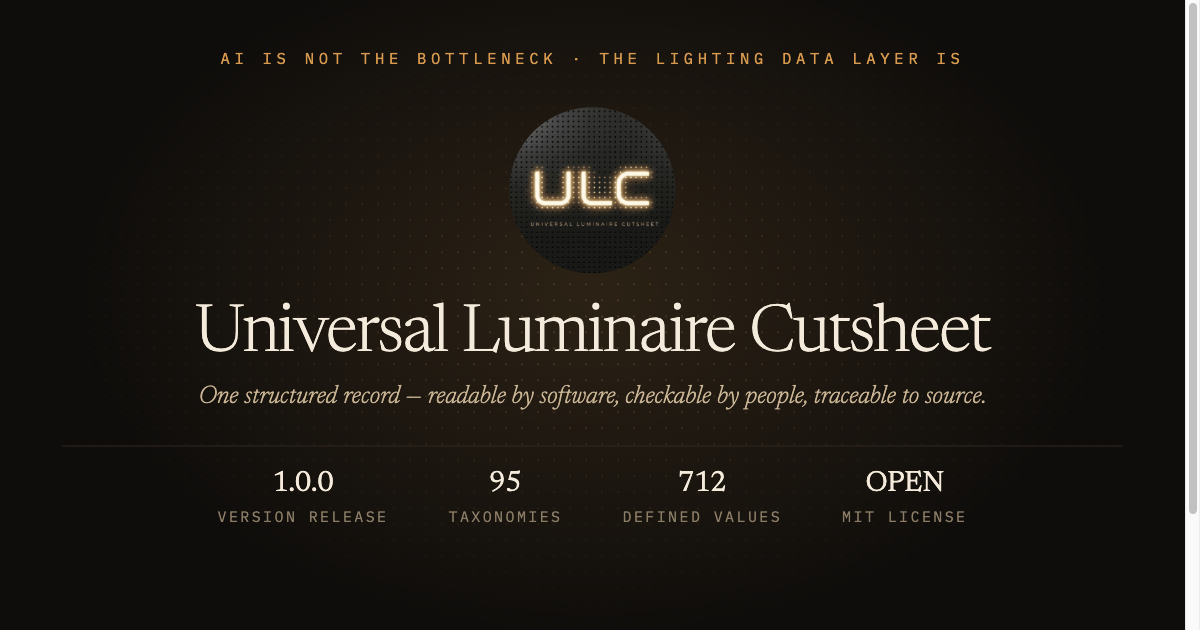
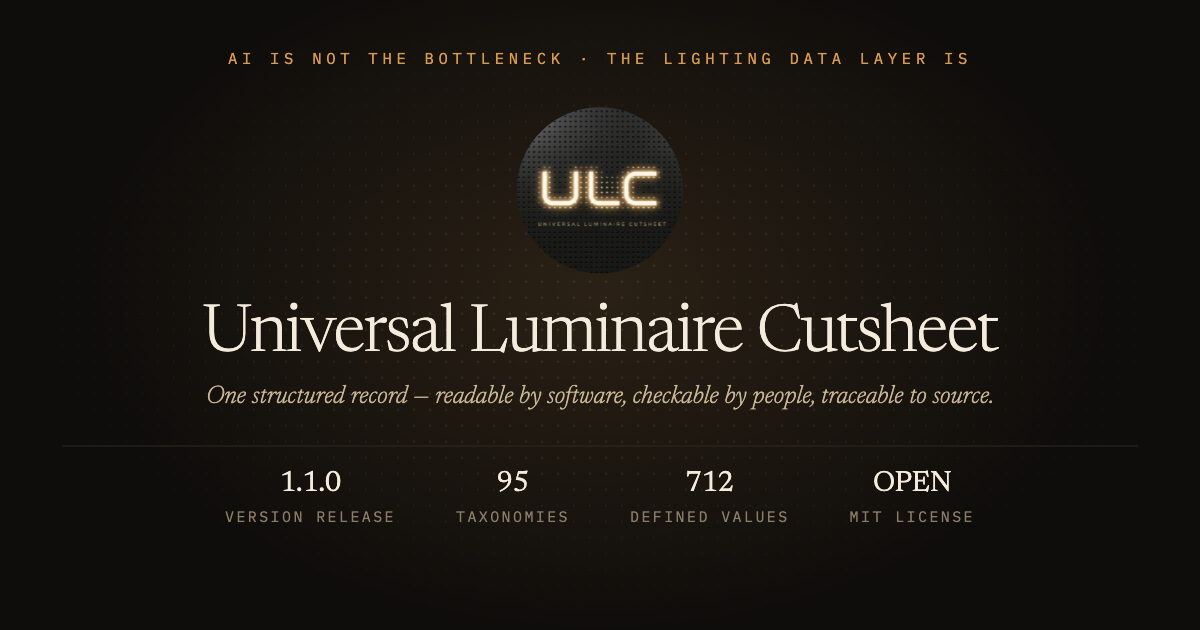
feat(site): align ulcspec.org with ULC v1.1.0 (seventh achievement theme: domestic content) (#32)
Product Achievements is a seven-theme axis. Domestic content joins embodied
carbon, circularity, material health, energy, dark sky, and emergency, reading
the US federal-procurement programs: the Buy American Act, Build America Buy
America, and American Iron and Steel.

Vendored data:

- Pin spec-sync to the v1.1.0 release commit.
- Re-vendor public/schema/ulc.json and the eight public/examples/*.ulc.json
  records byte-for-byte from that tag. public/schema/taxonomy.json is unchanged,
  because v1.1.0 added no taxonomy tokens.
- In each record the diff is confined to the generated index block:
  builder_version at 0.7.0 plus the added domestic_content theme entry.
  Conformance levels and documented_count values are unchanged. Four records
  carry the theme as claimed (Selux Aya, both Lumenpulse Lumenfacade variants,
  Vode Nexa); the three Cooper signs and the ERCO record read none.
- The schema keeps its original six required themes and adds domestic_content as
  an open property, so existing consumers are unaffected.

Pages:

- /docs/achievements: the seventh theme entry, and a caveat that
  domestic-content eligibility on a given project is confirmed per project by
  the manufacturer, not by the badge. The unthemed-programs paragraph is
  corrected: Trade Agreements Act eligibility and country of origin are
  permanently unthemed by design, while the controls programs stay held for a
  future theme. The validator callout gains one sentence on the report-only
[…]

diff --git a/public/overview/index.html b/public/overview/index.html
@@ -16,7 +16,7 @@
 <meta property="og:image:type" content="image/png">
 <meta property="og:image:width" content="1200">
 <meta property="og:image:height" content="630">
-<meta property="og:image:alt" content="Universal Luminaire Cutsheet, ULC version 1.0.0">
+<meta property="og:image:alt" content="Universal Luminaire Cutsheet, ULC version 1.1.0">
 <meta name="twitter:card" content="summary_large_image">
 <meta name="twitter:title" content="ULC v1: Universal Luminaire Cutsheet">
 <meta name="twitter:description" content="One structured luminaire record: readable by software, checkable by people, traceable to source. An interactive deck.">
@@ -76,7 +76,7 @@
       <div style="position: relative; width: 100%; display: flex; flex-direction: column;">
         <div data-fx="draw" data-fxd="620" style="height: 1px; background: #2E271E; transform-origin: left center;"></div>
         <div data-statrow style="display: flex; flex-wrap: wrap; justify-content: center; align-items: baseline; gap: clamp(28px, 5vw, 96px); padding-top: clamp(22px, 3.7vh, 40px);">
-          <div data-fx="rise" data-fxd="700" style="display: flex; flex-direction: column; align-items: center; gap: 8px;"><span style="font-family: Newsreader, serif; font-size: clamp(24px, 2.4vw, 46px); color: #F4EBDC;">1.0.0</span><span style="font-family: 'IBM Plex Mono', monospace; font-size: clamp(11px, 1.25vw, 24px); letter-spacing: 0.16em; color: #8B7D68;">VERSION RELEASE</span></div>
+          <div data-fx="rise" data-fxd="700" style="display: flex; flex-direction: column; align-items: center; gap: 8px;"><span style="font-family: Newsreader, serif; font-size: clamp(24px, 2.4vw, 46px); color: #F4EBDC;">1.1.0</span><span style="font-family: 'IBM Plex Mono', monospace; font-size: clamp(11px, 1.25vw, 24px); letter-spacing: 0.16em; color: #8B7D68;">VERSION RELEASE</span></div>
           <div data-fx="rise" data-fxd="790" style="display: flex; flex-direction: column; align-items: center; gap: 8px;"><span data-count="95" style="font-family: Newsreader, serif; font-size: clamp(24px, 2.4vw, 46px); color: #F4EBDC;">95</span><span style="font-family: 'IBM Plex Mono', monospace; font-size: clamp(11px, 1.25vw, 24px); letter-spacing: 0.16em; color: #8B7D68;">TAXONOMIES</span></div>
           <div data-fx="rise" data-fxd="880" style="display: flex; flex-direction: column; align-items: center; gap: 8px;"><span data-count="712" style="font-family: Newsreader, serif; font-size: clamp(24px, 2.4vw, 46px); color: #F4EBDC;">712</span><span style="font-family: 'IBM Plex Mono', monospace; font-size: clamp(11px, 1.25vw, 24px); letter-spacing: 0.16em; color: #8B7D68;">DEFINED VALUES</span></div>
           <div data-fx="rise" data-fxd="970" style="display: flex; flex-direction: column; align-items: center; gap: 8px;"><span style="font-family: Newsreader, serif; font-size: clamp(24px, 2.4vw, 46px); color: #F4EBDC;">OPEN</span><span style="font-family: 'IBM Plex Mono', monospace; font-size: clamp(11px, 1.25vw, 24px); letter-spacing: 0.16em; color: #8B7D68;">MIT LICENSE</span></div>
@@ -183,33 +183,34 @@
   <div data-slide="5" data-screen-label="Computed Views" role="region" aria-roledescription="slide" aria-label="Computed Views" aria-hidden="true" style="position: absolute; inset: 0; overflow-y: auto; overflow-x: hidden; background: #12100D; opacity: 0; visibility: hidden; transform: translateY(26px); z-index: 0; pointer-events: none;">
     <section style="min-height: 100%; box-sizing: border-box; position: relative; max-width: 1920px; margin: 0 auto; display: flex; flex-direction: column; justify-content: center; padding: clamp(48px, 7vh, 84px) clamp(24px, 5.2vw, 100px) clamp(104px, 13vh, 150px);">
       <div data-fx="trace26" style="font-family: 'IBM Plex Mono', monospace; font-size: clamp(12px, 1.25vw, 24px); letter-spacing: 0.26em; color: #D89A4E; margin-bottom: clamp(14px, 2vh, 22px);">COMPUTED INTELLIGENCE</div>
-      <h2 data-fx="rise" data-fxd="110" style="margin: 0 0 clamp(14px, 2.2vh, 24px) 0; font-family: Newsreader, serif; font-weight: 300; font-size: clamp(32px, 4vw, 78px); line-height: 1.08; letter-spacing: -0.01em; color: #F4EBDC;">One master record, two <em style="color: #E0B071;">computed</em> views.</h2>
-      <p data-fx="rise" data-fxd="230" style="margin: 0 0 clamp(26px, 5.2vh, 56px) 0; font-size: clamp(16px, 1.5vw, 29px); line-height: 1.5; color: #A79A85; max-width: 1560px;">Both views are generated by the reference builder and checked for parity. <span style="color: #EDE3D2;">Neither can be typed in by the author.</span></p>
-      <div data-grid style="display: grid; grid-template-columns: 1fr 1fr; gap: clamp(36px, 5.2vw, 100px); align-items: start;">
+      <h2 data-fx="rise" data-fxd="110" style="margin: 0 0 clamp(10px, 1.6vh, 20px) 0; font-family: Newsreader, serif; font-weight: 300; font-size: clamp(32px, 4vw, 78px); line-height: 1.08; letter-spacing: -0.01em; color: #F4EBDC;">One master record, two <em style="color: #E0B071;">computed</em> views.</h2>
+      <p data-fx="rise" data-fxd="230" style="margin: 0 0 clamp(18px, 3.4vh, 40px) 0; font-size: clamp(16px, 1.5vw, 29px); line-height: 1.5; color: #A79A85; max-width: 1560px;">Both views are generated by the reference builder and checked for parity. <span style="color: #EDE3D2;">Neither can be typed in by the author.</span></p>
+      <div data-grid style="display: grid; grid-template-columns: 1fr 1fr; gap: clamp(36px, 5.2vw, 100px); align-items: stretch;">
         <div>
           <div data-fx="fade" data-fxd="340" style="font-family: 'IBM Plex Mono', monospace; font-size: clamp(12px, 1.25vw, 24px); letter-spacing: 0.16em; color: #8B7D68; margin-bottom: 10px;">DATA COMPLETENESS</div>
-          <div data-fx="fade" data-fxd="380" style="font-size: clamp(15px, 1.4vw, 27px); color: #A79A85; margin-bottom: clamp(20px, 3.1vh, 34px);">How complete and rigorous is the data package?</div>
-          <div style="display: flex; flex-direction: column; gap: clamp(16px, 2.4vh, 26px);">
+          <div data-fx="fade" data-fxd="380" style="font-size: clamp(15px, 1.4vw, 27px); color: #A79A85; margin-bottom: clamp(14px, 2.2vh, 26px);">How complete and rigorous is the data package?</div>
+          <div style="display: flex; flex-direction: column; gap: clamp(10px, 1.4vh, 18px);">
             <div data-fx="rise" data-fxd="440"><div style="display: flex; justify-content: space-between; align-items: baseline; gap: 16px; flex-wrap: wrap; margin-bottom: 10px;"><span style="font-family: 'IBM Plex Mono', monospace; font-size: clamp(14px, 1.35vw, 26px); letter-spacing: 0.12em; color: #F4EBDC;">FULL</span><span style="font-size: clamp(13px, 1.3vw, 25px); color: #A79A85;">accredited test-report depth</span></div><div data-fx="draw" data-fxd="560" style="height: 14px; border-radius: 999px; background: rgba(216,154,78,0.95); width: 100%; transform-origin: left center;"></div></div>
             <div data-fx="rise" data-fxd="540"><div style="display: flex; justify-content: space-between; align-items: baseline; gap: 16px; flex-wrap: wrap; margin-bottom: 10px;"><span style="font-family: 'IBM Plex Mono', monospace; font-size: clamp(14px, 1.35vw, 26px); letter-spacing: 0.12em; color: #F4EBDC;">STANDARD</span><span style="font-size: clamp(13px, 1.3vw, 25px); color: #A79A85;">selection-grade performance data</span></div><div data-fx="draw" data-fxd="660" style="height: 14px; border-radius: 999px; background: rgba(216,154,78,0.60); width: 76%; transform-origin: left center;"></div></div>
             <div data-fx="rise" data-fxd="640"><div style="display: flex; justify-content: space-between; align-items: baseline; gap: 16px; flex-wrap: wrap; margin-bottom: 10px;"><span style="font-family: 'IBM Plex Mono', monospace; font-size: clamp(14px, 1.35vw, 26px); letter-spacing: 0.12em; color: #F4EBDC;">CORE</span><span style="font-size: clamp(13px, 1.3vw, 25px); color: #A79A85;">identity, headline data, safety listing</span></div><div data-fx="draw" data-fxd="760" style="height: 14px; border-radius: 999px; background: rgba(216,154,78,0.32); width: 52%; transform-origin: left center;"></div></div>
             <div data-fx="rise" data-fxd="740"><div style="display: flex; justify-content: space-between; align-items: baseline; gap: 16px; flex-wrap: wrap; margin-bottom: 10px;"><span style="font-family: 'IBM Plex Mono', monospace; font-size: clamp(14px, 1.35vw, 26px); letter-spacing: 0.12em; color: #8B7D68;">INCOMPLETE</span><span style="font-size: clamp(13px, 1.3vw, 25px); color: #8B7D68;">a named roadmap to the Core floor</span></div><div data-fx="draw" data-fxd="860" style="height: 14px; border-radius: 999px; background: rgba(216,154,78,0.14); width: 28%; transform-origin: left center;"></div></div>
           </div>
-          <p data-fx="fade" data-fxd="980" style="margin: clamp(22px, 3.7vh, 40px) 0 0 0; font-size: clamp(13px, 1.35vw, 26px); line-height: 1.5; color: #8B7D68; max-width: 810px;">Every grade names its gaps — the validator prints the exact roadmap from Incomplete to Full.</p>
-          <p data-fx="fade" data-fxd="1060" style="margin: clamp(14px, 2.2vh, 24px) 0 0 0; font-size: clamp(13px, 1.35vw, 26px); line-height: 1.5; color: #8B7D68; max-width: 810px;">ULC records the evidence; it does not certify the product.</p>
+          <p data-fx="fade" data-fxd="980" style="margin: clamp(14px, 2.2vh, 26px) 0 0 0; font-size: clamp(13px, 1.35vw, 26px); line-height: 1.5; color: #8B7D68; max-width: 810px;">Every grade names its gaps — the validator prints the exact roadmap from Incomplete to Full.</p>
+          <p data-fx="fade" data-fxd="1060" style="margin: clamp(9px, 1.4vh, 16px) 0 0 0; font-size: clamp(13px, 1.35vw, 26px); line-height: 1.5; color: #8B7D68; max-width: 810px;">ULC records the evidence; it does not certify the product.</p>
+          <p data-fx="fade" data-fxd="1140" style="margin: clamp(9px, 1.4vh, 16px) 0 0 0; font-size: clamp(13px, 1.35vw, 26px); line-height: 1.5; color: #8B7D68; max-width: 810px;"><span style="color: #D89A4E;">Documented</span> means a qualifying attestation has current evidence attached and hash-anchored.</p>
         </div>
-        <div>
+        <div style="display: flex; flex-direction: column;">
           <div data-fx="fade" data-fxd="340" style="font-family: 'IBM Plex Mono', monospace; font-size: clamp(12px, 1.25vw, 24px); letter-spacing: 0.16em; color: #8B7D68; margin-bottom: 10px;">PRODUCT ACHIEVEMENTS</div>
-          <div data-fx="fade" data-fxd="380" style="font-size: clamp(15px, 1.4vw, 27px); color: #A79A85; margin-bottom: clamp(20px, 3.1vh, 34px);">What is the product documented for? <span style="font-family: 'IBM Plex Mono', monospace; font-size: clamp(12px, 1.25vw, 24px); color: #6B6052;">— ILLUSTRATIVE</span></div>
-          <div data-cards style="display: grid; grid-template-columns: 1fr 1fr; gap: clamp(14px, 1.9vh, 20px) clamp(14px, 1.25vw, 24px);">
-            <div data-fx="rise" data-fxd="460" style="border: 1px solid #2C251C; background: #161310; border-radius: 8px; padding: clamp(16px, 2.4vh, 26px) clamp(16px, 1.45vw, 28px); display: flex; justify-content: space-between; align-items: center; gap: 12px; flex-wrap: wrap;"><span style="font-family: 'IBM Plex Mono', monospace; font-size: clamp(12px, 1.25vw, 24px); letter-spacing: 0.08em; color: #EDE3D2;">EMBODIED CARBON</span><span style="font-family: 'IBM Plex Mono', monospace; font-size: clamp(12px, 1.25vw, 24px); color: #D89A4E; border: 1px solid rgba(216,154,78,0.5); border-radius: 999px; padding: 5px 16px;">CLAIMED</span></div>
-            <div data-fx="rise" data-fxd="530" style="border: 1px solid #2C251C; background: #161310; border-radius: 8px; padding: clamp(16px, 2.4vh, 26px) clamp(16px, 1.45vw, 28px); display: flex; justify-content: space-between; align-items: center; gap: 12px; flex-wrap: wrap;"><span style="font-family: 'IBM Plex Mono', monospace; font-size: clamp(12px, 1.25vw, 24px); letter-spacing: 0.08em; color: #EDE3D2;">MATERIAL HEALTH</span><span style="font-family: 'IBM Plex Mono', monospace; font-size: clamp(12px, 1.25vw, 24px); color: #12100D; background: #D89A4E; border: 1px solid #D89A4E; border-radius: 999px; padding: 5px 16px;">DOCUMENTED</span></div>
-            <div data-fx="rise" data-fxd="600" style="border: 1px solid #2C251C; background: #161310; border-radius: 8px; padding: clamp(16px, 2.4vh, 26px) clamp(16px, 1.45vw, 28px); display: flex; justify-content: space-between; align-items: center; gap: 12px; flex-wrap: wrap;"><span style="font-family: 'IBM Plex Mono', monospace; font-size: clamp(12px, 1.25vw, 24px); letter-spacing: 0.08em; color: #EDE3D2;">ENERGY</span><span style="font-family: 'IBM Plex Mono', monospace; font-size: clamp(12px, 1.25vw, 24px); color: #12100D; background: #D89A4E; border: 1px solid #D89A4E; border-radius: 999px; padding: 5px 16px;">DOCUMENTED</span></div>
-            <div data-fx="rise" data-fxd="670" style="border: 1px solid #2C251C; background: #161310; border-radius: 8px; padding: clamp(16px, 2.4vh, 26px) clamp(16px, 1.45vw, 28px); display: flex; justify-content: space-between; align-items: center; gap: 12px; flex-wrap: wrap;"><span style="font-family: 'IBM Plex Mono', monospace; font-size: clamp(12px, 1.25vw, 24px); letter-spacing: 0.08em; color: #EDE3D2;">DARK SKY</span><span style="font-family: 'IBM Plex Mono', monospace; font-size: clamp(12px, 1.25vw, 24px); color: #D89A4E; border: 1px solid rgba(216,154,78,0.5); border-radius: 999px; padding: 5px 16px;">CLAIMED</span></div>
-            <div data-fx="rise" data-fxd="740" style="border: 1px solid #2C251C; background: #161310; border-radius: 8px; padding: clamp(16px, 2.4vh, 26px) clamp(16px, 1.45vw, 28px); display: flex; justify-content: space-between; align-items: center; gap: 12px; flex-wrap: wrap;"><span style="font-family: 'IBM Plex Mono', monospace; font-size: clamp(12px, 1.25vw, 24px); letter-spacing: 0.08em; color: #8B7D68;">CIRCULARITY</span><span style="font-family: 'IBM Plex Mono', monospace; font-size: clamp(12px, 1.25vw, 24px); color: #6B6052; border: 1px solid #2C251C; border-radius: 999px; padding: 5px 16px;">NONE</span></div>
-            <div data-fx="rise" data-fxd="810" style="border: 1px solid #2C251C; background: #161310; border-radius: 8px; padding: clamp(16px, 2.4vh, 26px) clamp(16px, 1.45vw, 28px); display: flex; justify-content: space-between; align-items: center; gap: 12px; flex-wrap: wrap;"><span style="font-family: 'IBM Plex Mono', monospace; font-size: clamp(12px, 1.25vw, 24px); letter-spacing: 0.08em; color: #8B7D68;">EMERGENCY</span><span style="font-family: 'IBM Plex Mono', monospace; font-size: clamp(12px, 1.25vw, 24px); color: #6B6052; border: 1px solid #2C251C; border-radius: 999px; padding: 5px 16px;">NONE</span></div>
+          <div data-fx="fade" data-fxd="380" style="font-size: clamp(15px, 1.4vw, 27px); color: #A79A85; margin-bottom: clamp(14px, 2.2vh, 26px);">What is the product documented for? <span style="font-family: 'IBM Plex Mono', monospace; font-size: clamp(12px, 1.25vw, 24px); color: #6B6052;">— ILLUSTRATIVE</span></div>
+          <div data-cards style="display: grid; grid-template-columns: 1fr 1fr; grid-auto-rows: minmax(0, 1fr); flex: 1; min-height: 0; gap: clamp(10px, 1.4vh, 16px) clamp(14px, 1.25vw, 24px);">
+            <div data-fx="rise" data-fxd="460" style="border: 1px solid #2C251C; background: #161310; border-radius: 8px; padding: clamp(10px, 1.4vh, 16px) clamp(14px, 1.3vw, 24px); display: flex; justify-content: space-between; align-items: center; gap: 8px; flex-wrap: wrap;"><span style="font-family: 'IBM Plex Mono', monospace; font-size: clamp(12px, 1.25vw, 24px); letter-spacing: 0.08em; color: #EDE3D2;">EMBODIED CARBON</span><span style="font-family: 'IBM Plex Mono', monospace; font-size: clamp(12px, 1.25vw, 24px); color: #D89A4E; border: 1px solid rgba(216,154,78,0.5); border-radius: 999px; padding: 4px 14px;">CLAIMED</span></div>
+            <div data-fx="rise" data-fxd="530" style="border: 1px solid #2C251C; background: #161310; border-radius: 8px; padding: clamp(10px, 1.4vh, 16px) clamp(14px, 1.3vw, 24px); display: flex; justify-content: space-between; align-items: center; gap: 8px; flex-wrap: wrap;"><span style="font-family: 'IBM Plex Mono', monospace; font-size: clamp(12px, 1.25vw, 24px); letter-spacing: 0.08em; color: #EDE3D2;">MATERIAL HEALTH</span><span style="font-family: 'IBM Plex Mono', monospace; font-size: clamp(12px, 1.25vw, 24px); color: #12100D; background: #D89A4E; border: 1px solid #D89A4E; border-radius: 999px; padding: 4px 14px;">DOCUMENTED</span></div>
+            <div data-fx="rise" data-fxd="600" style="border: 1px solid #2C251C; background: #161310; border-radius: 8px; padding: clamp(10px, 1.4vh, 16px) clamp(14px, 1.3vw, 24px); display: flex; justify-content: space-between; align-items: center; gap: 8px; flex-wrap: wrap;"><span style="font-family: 'IBM Plex Mono', monospace; font-size: clamp(12px, 1.25vw, 24px); letter-spacing: 0.08em; color: #EDE3D2;">ENERGY</span><span style="font-family: 'IBM Plex Mono', monospace; font-size: clamp(12px, 1.25vw, 24px); color: #12100D; background: #D89A4E; border: 1px solid #D89A4E; border-radius: 999px; padding: 4px 14px;">DOCUMENTED</span></div>
+            <div data-fx="rise" data-fxd="670" style="border: 1px solid #2C251C; background: #161310; border-radius: 8px; padding: clamp(10px, 1.4vh, 16px) clamp(14px, 1.3vw, 24px); display: flex; justify-content: space-between; align-items: center; gap: 8px; flex-wrap: wrap;"><span style="font-family: 'IBM Plex Mono', monospace; font-size: clamp(12px, 1.25vw, 24px); letter-spacing: 0.08em; color: #EDE3D2;">DARK SKY</span><span style="font-family: 'IBM Plex Mono', monospace; font-size: clamp(12px, 1.25vw, 24px); color: #D89A4E; border: 1px solid rgba(216,154,78,0.5); border-radius: 999px; padding: 4px 14px;">CLAIMED</span></div>
+            <div data-fx="rise" data-fxd="740" style="border: 1px solid #2C251C; background: #161310; border-radius: 8px; padding: clamp(10px, 1.4vh, 16px) clamp(14px, 1.3vw, 24px); display: flex; justify-content: space-between; align-items: center; gap: 8px; flex-wrap: wrap;"><span style="font-family: 'IBM Plex Mono', monospace; font-size: clamp(12px, 1.25vw, 24px); letter-spacing: 0.08em; color: #8B7D68;">CIRCULARITY</span><span style="font-family: 'IBM Plex Mono', monospace; font-size: clamp(12px, 1.25vw, 24px); color: #6B6052; border: 1px solid #2C251C; border-radius: 999px; padding: 4px 14px;">NONE</span></div>
+            <div data-fx="rise" data-fxd="810" style="border: 1px solid #2C251C; background: #161310; border-radius: 8px; padding: clamp(10px, 1.4vh, 16px) clamp(14px, 1.3vw, 24px); display: flex; justify-content: space-between; align-items: center; gap: 8px; flex-wrap: wrap;"><span style="font-family: 'IBM Plex Mono', monospace; font-size: clamp(12px, 1.25vw, 24px); letter-spacing: 0.08em; color: #8B7D68;">EMERGENCY</span><span style="font-family: 'IBM Plex Mono', monospace; font-size: clamp(12px, 1.25vw, 24px); color: #6B6052; border: 1px solid #2C251C; border-radius: 999px; padding: 4px 14px;">NONE</span></div>
+            <div data-fx="rise" data-fxd="880" style="border: 1px solid #2C251C; background: #161310; border-radius: 8px; padding: clamp(10px, 1.4vh, 16px) clamp(14px, 1.3vw, 24px); display: flex; justify-content: space-between; align-items: center; gap: 8px; flex-wrap: wrap;"><span style="font-family: 'IBM Plex Mono', monospace; font-size: clamp(12px, 1.25vw, 24px); letter-spacing: 0.08em; color: #EDE3D2;">DOMESTIC CONTENT</span><span style="font-family: 'IBM Plex Mono', monospace; font-size: clamp(12px, 1.25vw, 24px); color: #D89A4E; border: 1px solid rgba(216,154,78,0.5); border-radius: 999px; padding: 4px 14px;">CLAIMED</span></div>
           </div>
-          <p data-fx="fade" data-fxd="980" style="margin: clamp(22px, 3.7vh, 40px) 0 0 0; font-size: clamp(13px, 1.35vw, 26px); line-height: 1.5; color: #8B7D68;"><span style="color: #D89A4E;">Documented</span> means a qualifying attestation has current evidence attached and hash-anchored.</p>
         </div>
       </div>
     </section>

diff --git a/src/content/prompts/tier1-prompts.ts b/src/content/prompts/tier1-prompts.ts
@@ -52,7 +52,7 @@ export const TIER1_PROMPT_PULL_PROVENANCE: Tier1Prompt = {
 export const TIER1_PROMPT_CHECK_ACHIEVEMENTS: Tier1Prompt = {
   id: 'tier1-check-achievements',
   label: 'Check what a product is documented for',
-  text: 'Read the attached `.ulc.json` file. From `index.achievements`, report each theme (embodied carbon, circularity, material health, energy, dark sky, emergency) with its state: none, claimed, or documented. For each documented theme, name the qualifying programs and note that an evidence document is attached. For each claimed theme, note that no current evidence document backs it. Also report `index.restricted_substances_declared` and `index.conformance_level`. Do not infer qualifications the record does not carry.',
+  text: 'Read the attached `.ulc.json` file. From `index.achievements`, report each theme (embodied carbon, circularity, material health, energy, dark sky, emergency, domestic content) with its state: none, claimed, or documented. For each documented theme, name the qualifying programs and note that an evidence document is attached. For each claimed theme, note that no current evidence document backs it. Also report `index.restricted_substances_declared` and `index.conformance_level`. Do not infer qualifications the record does not carry.',
 };
 
 export const TIER1_PROMPTS: readonly Tier1Prompt[] = [

diff --git a/spec-sync.config.ts b/spec-sync.config.ts
@@ -36,14 +36,14 @@ export interface SpecSyncConfig {
 export const SPEC_SYNC = {
   upstreamOwner: 'ulcspec',
   upstreamRepo: 'ULC',
-  // Pinned to the v1.0.1 release commit (tag v1.0.1), which ships the two
-  // computed views (the conformance level and the Product Achievements
+  // Pinned to the v1.1.0 release commit (tag v1.1.0), which ships the two
+  // computed views (the conformance level and the seven Product Achievements
   // themes), the exit-sign and emergency product class, the eight example
-  // records, and the v1.0.1 schema and taxonomy. Advance via:
+  // records, and the v1.1.0 schema and taxonomy. Advance via:
   //   gh api repos/ulcspec/ULC/commits/main --jq '.sha'
   // and rebuild. The badge auto-detects a real SHA and renders it.
-  upstreamCommit: '86109bcbdaf41a1e4ae3d58421dc69e33a985982',
-  upstreamVersion: 'v1.0.1',
+  upstreamCommit: '870bd0ebc48b87d19507c90f7144b353a227c72a',
+  upstreamVersion: 'v1.1.0',
   upstreamEditBranch: 'main',
   files: [
     {
